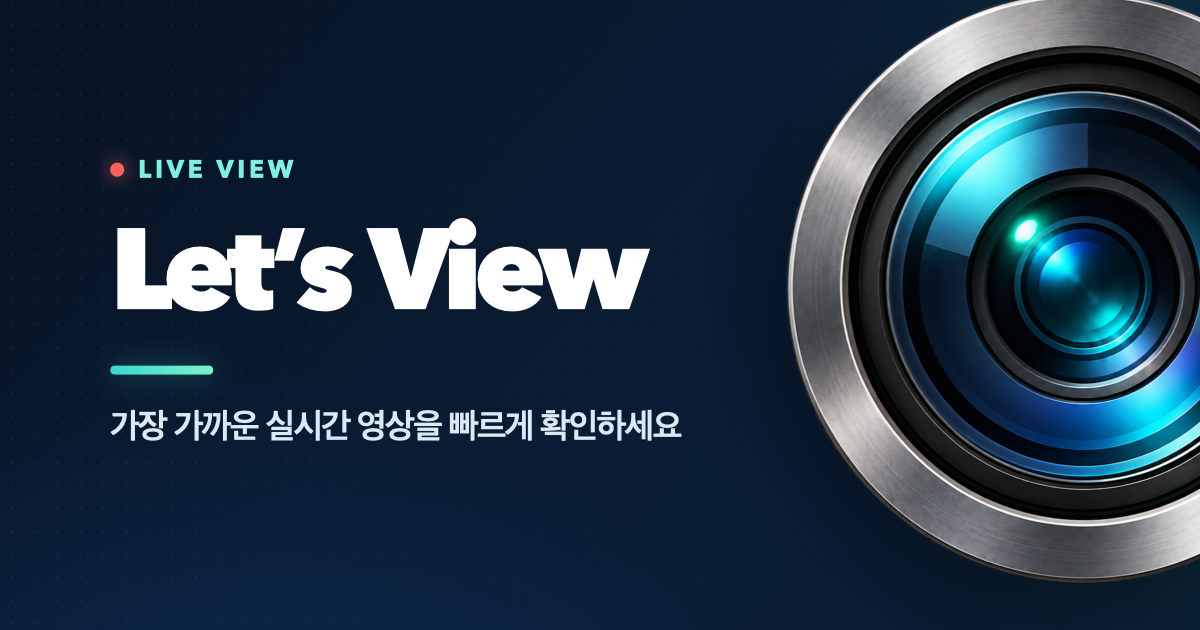
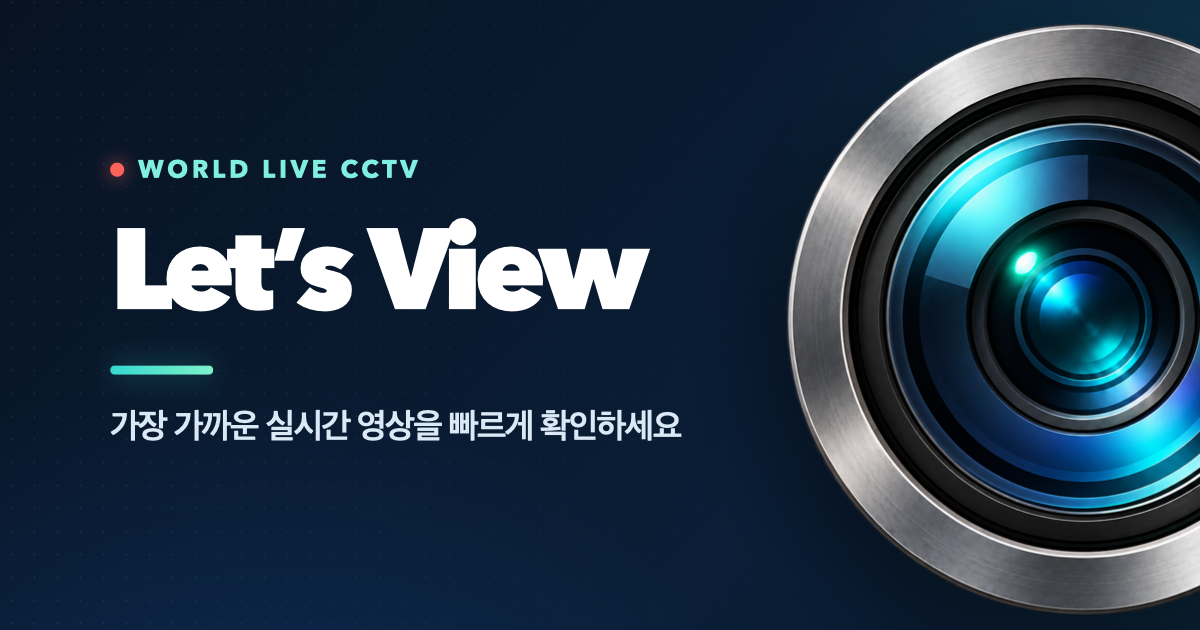
fix(brand): center lens in Open Graph card

Changed region(s): [[0.6475, 0.0, 1.0, 0.9952], [0.1233, 0.2413, 0.37, 0.3016]]

diff --git a/index.html b/index.html
@@ -13,7 +13,7 @@
     <!-- Open Graph -->
     <meta property="og:title" content="렛츠 뷰 | Let's View">
     <meta property="og:description" content="전국 실시간 영상으로 날씨와 교통상황을 빠르게 확인하세요">
-    <meta property="og:image" content="https://pyw31337.github.io/cctv/title.png?v=20261023-6de41e41">
+    <meta property="og:image" content="https://pyw31337.github.io/cctv/title.png?v=20261023-og-lens-3">
     <meta property="og:url" content="https://pyw31337.github.io/cctv/">
     <meta property="og:type" content="website">
 
@@ -21,7 +21,7 @@
     <meta name="twitter:card" content="summary_large_image">
     <meta name="twitter:title" content="렛츠 뷰 | Let's View">
     <meta name="twitter:description" content="전국 실시간 영상으로 날씨와 교통상황을 빠르게 확인하세요">
-    <meta name="twitter:image" content="https://pyw31337.github.io/cctv/title.png?v=20261023-6de41e41">
+    <meta name="twitter:image" content="https://pyw31337.github.io/cctv/title.png?v=20261023-og-lens-3">
 
     <link rel="icon" href="favicon-32x32.png" type="image/png" sizes="32x32">
     <link rel="icon" href="favicon.ico" sizes="any">
